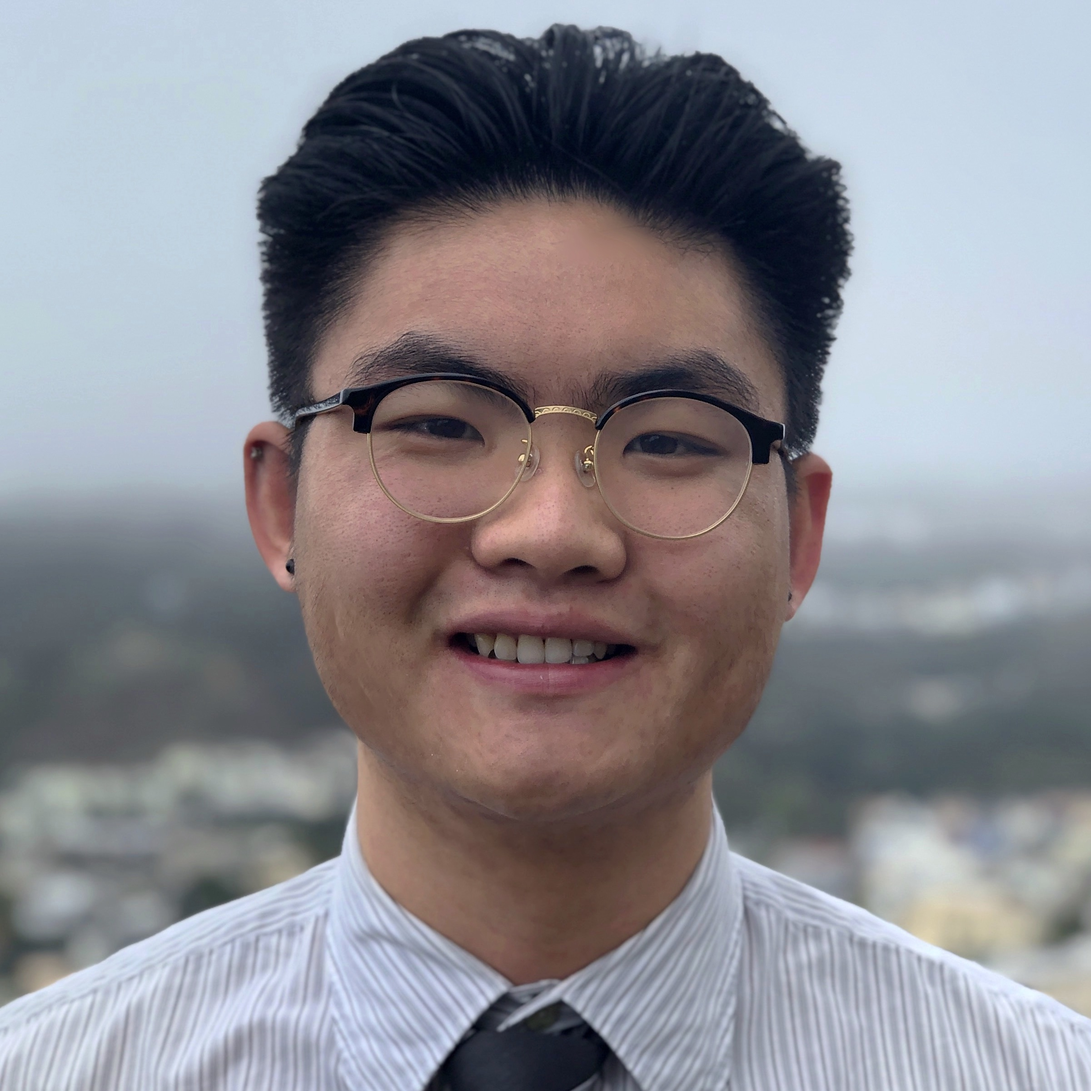
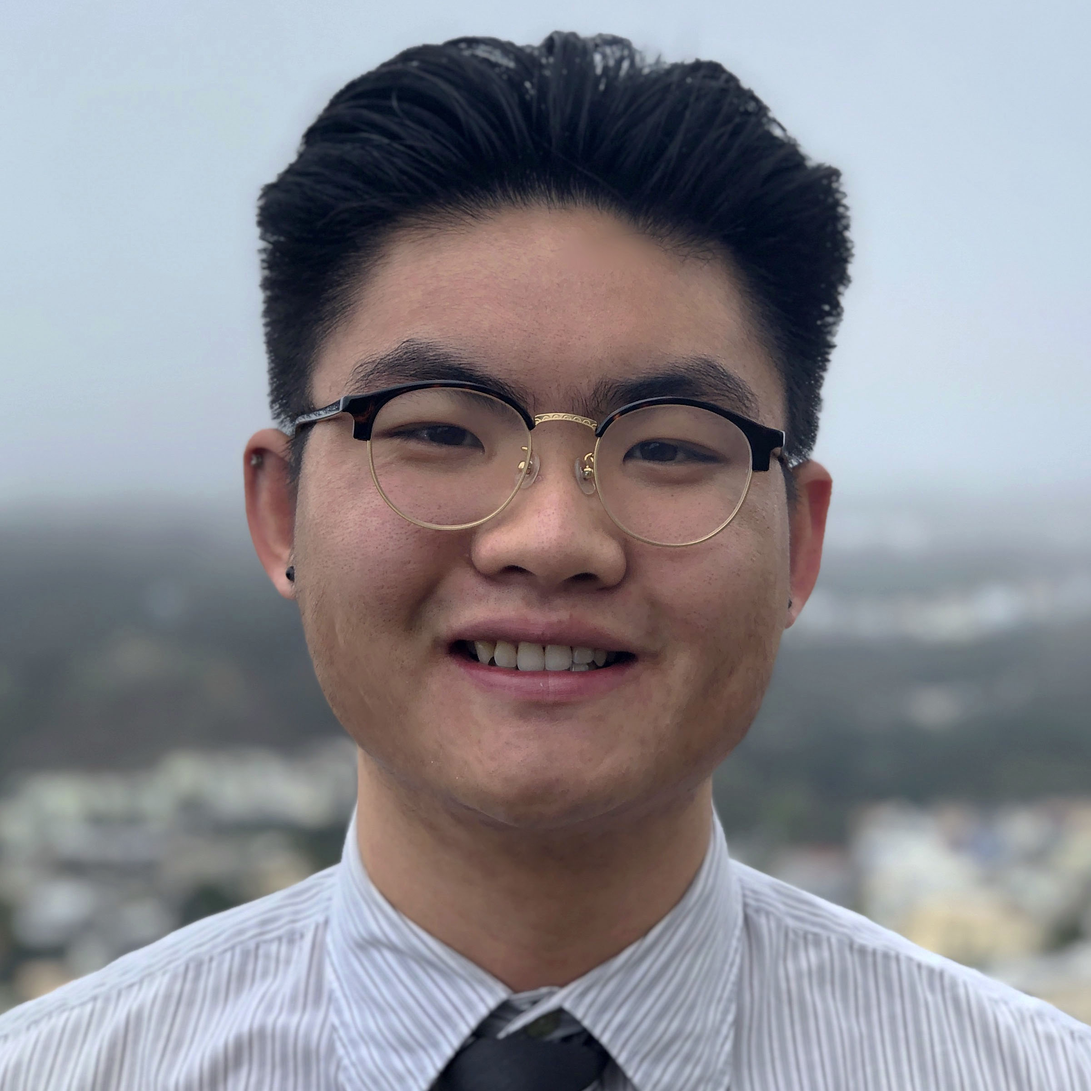
updated ministries

diff --git a/src/pages/ministries.module.scss b/src/pages/ministries.module.scss
@@ -45,7 +45,7 @@
     font-family: "Roboto";
     p {
         margin-bottom: 0;
-        line-height: 1.5;
+        line-height: 1.3;
     }
     .core {
         // font-weight: bold;

diff --git a/src/posts/ministries.md b/src/posts/ministries.md
@@ -11,7 +11,7 @@ ministries:
                 name: "Monica Andres"
                 detail: "4th year, Computer Science"
                 core: "Core Coordinator"
-                featuredImage: "../images/ministries/member.jpg"
+                featuredImage: "../images/ministries/monica.png"
                 verse: "+ Galatians 2:20"
                 extra: "+ cc aka corn connoisseur"
             - person:
